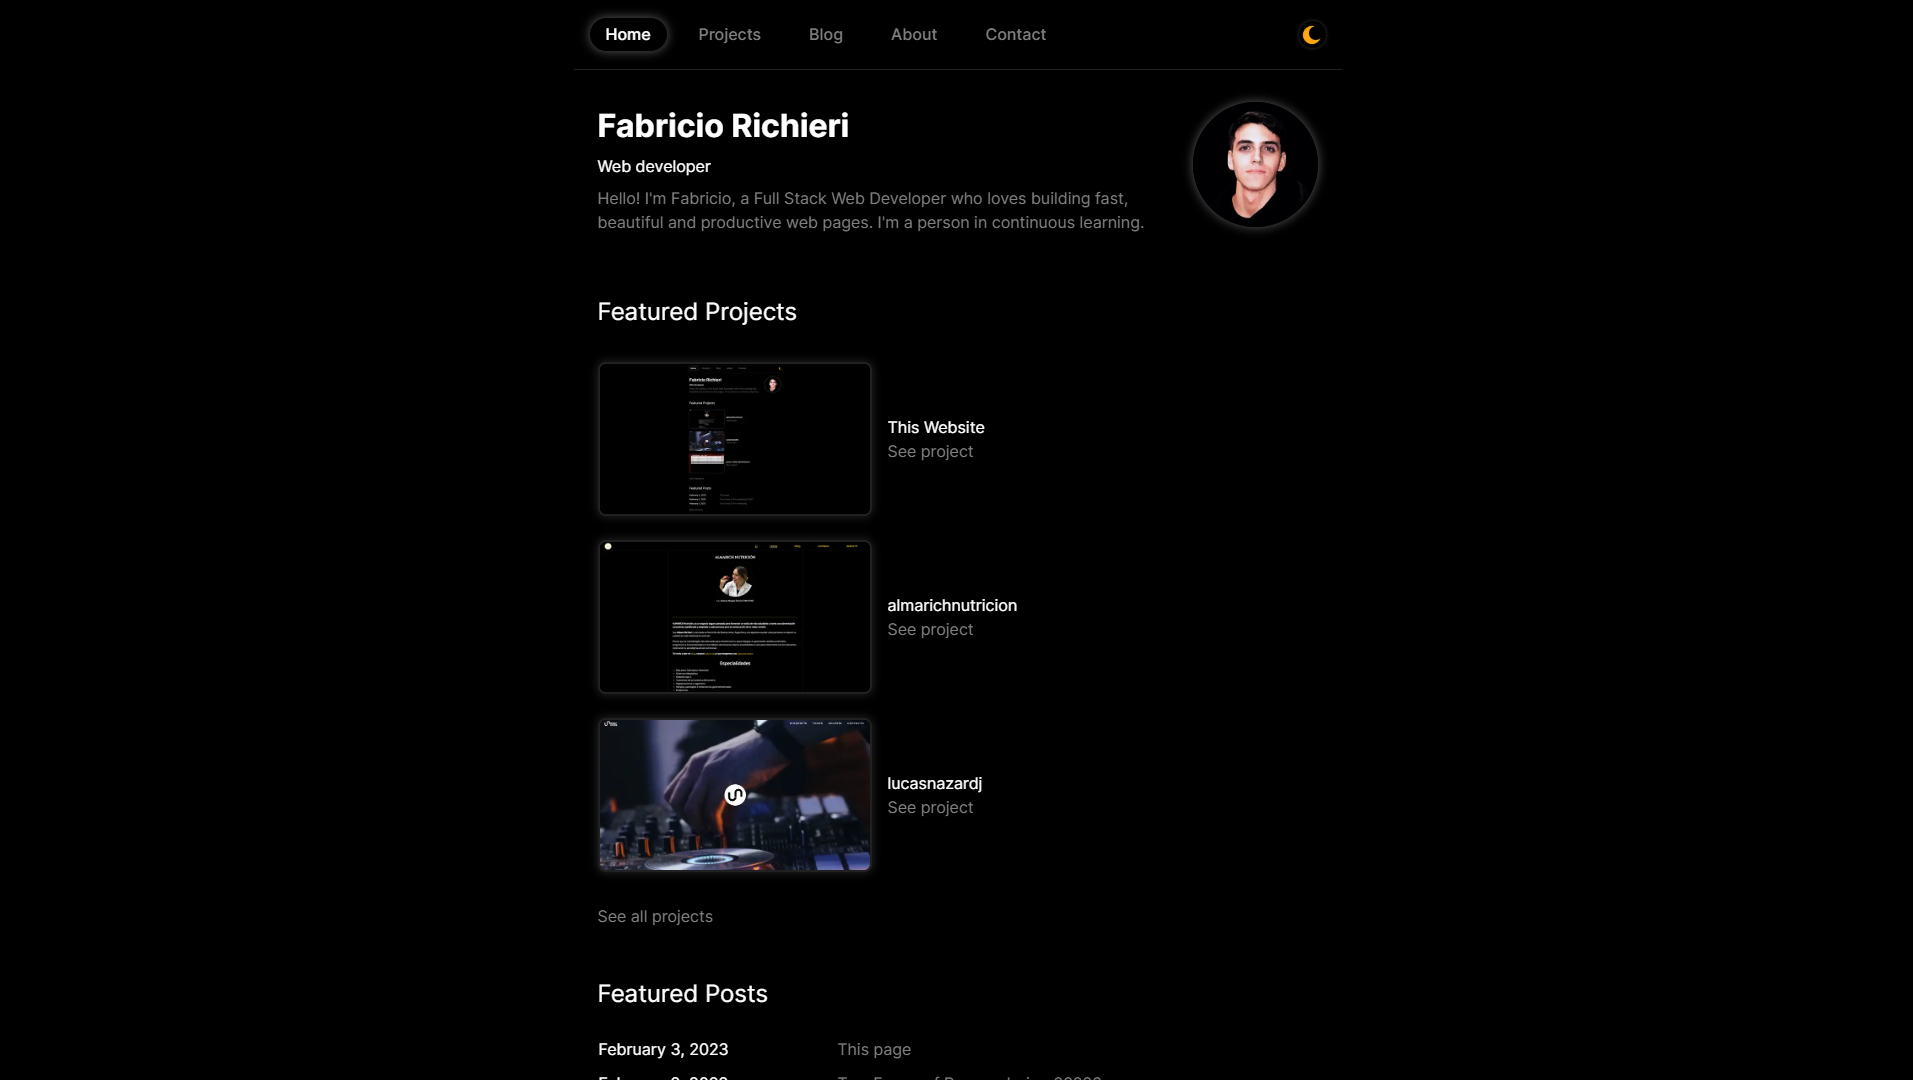
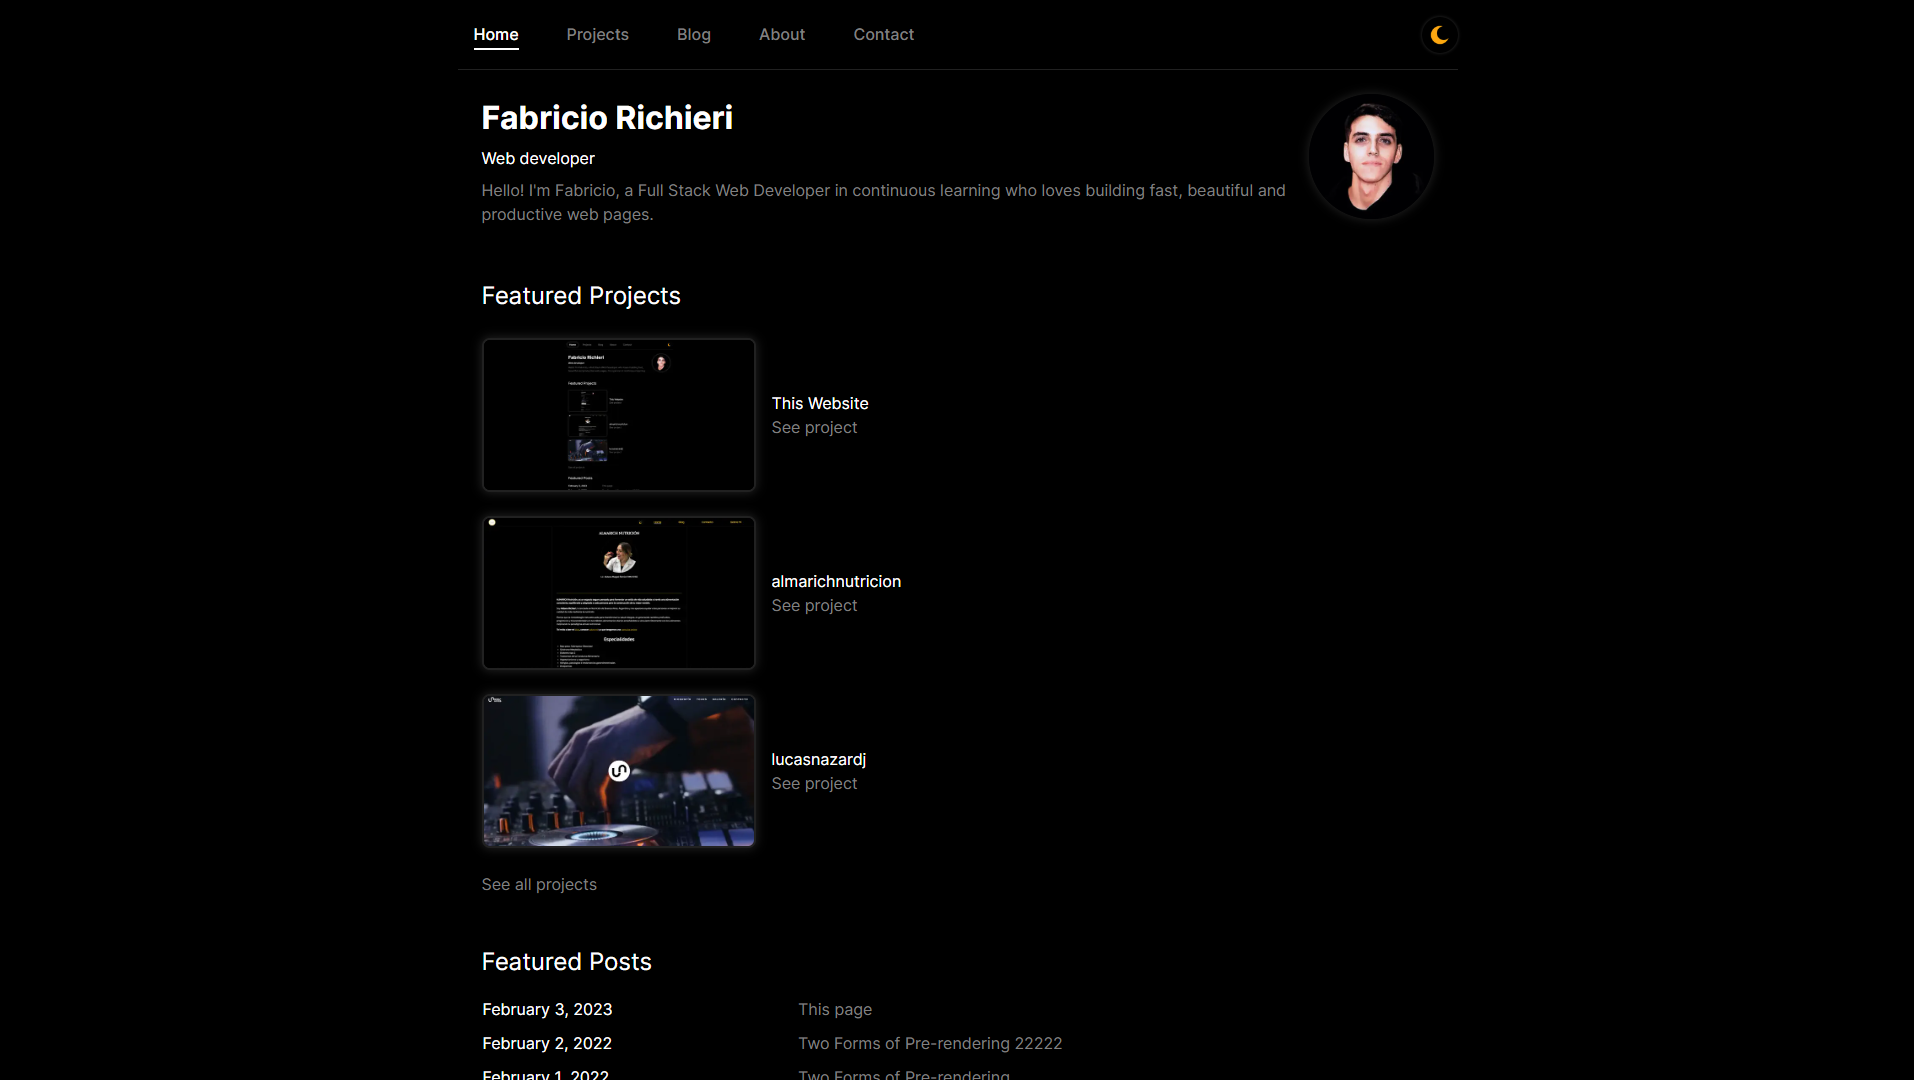
improves

diff --git a/utils/myProjects.ts b/utils/myProjects.ts
@@ -1,7 +1,7 @@
 export const myProjects = [
   {
     id: 0,
-    name: 'This Website',
+    name: 'frichieri.dev',
     slug: 'this-website',
     image: '/images/projects/this-website.png',
     github: 'https://github.com/farichieri/frichieri.dev',
@@ -336,5 +336,29 @@ export const myProjects = [
     stack: 'freeCodeCamp, Back End',
     description:
       'American British English Translator project made for the Quality Assurance freeCodeCamp certification.',
+  },
+  {
+    id: 29,
+    name: 'Stock-checker',
+    slug: 'stock-checker',
+    image: '/images/projects/stock-checker.png',
+    github: 'https://github.com/farichieri/boilerplate-project-stockchecker',
+    live: 'https://boilerplate-project-stockchecker.farichieri.repl.co',
+    languages: 'Node.js, Express & Chai',
+    stack: 'freeCodeCamp, Back End',
+    description:
+      'Stock checker project made for the Quality Assurance freeCodeCamp certification.',
+  },
+  {
+    id: 30,
+    name: 'Anonymous Message Board',
+    slug: 'anonymous-message-board',
+    image: '/images/projects/anonymous-message-board.png',
+    github: 'https://github.com/farichieri/boilerplate-project-messageboard',
+    live: 'https://boilerplate-project-messageboard.farichieri.repl.co',
+    languages: 'Node.js, Express & Chai',
+    stack: 'freeCodeCamp, Back End',
+    description:
+      'Anonymous Message Board project made for the Quality Assurance freeCodeCamp certification.',
   },
 ];

diff --git a/components/Footer/Footer.tsx b/components/Footer/Footer.tsx
@@ -31,7 +31,13 @@ const Footer = () => {
           </li>
         ))}
       </ul>
-      <p>Designed and developed by Fabricio Richieri - © 2023</p>
+      <Link
+        className='copyright'
+        href={'https://github.com/farichieri'}
+        target={'_blank'}
+      >
+        Designed and developed by frichieri - © 2023
+      </Link>
       <style jsx>{`
         footer {
           border-top: 1px solid var(--box-shadow-light);
@@ -59,10 +65,6 @@ const Footer = () => {
         }
         span:hover {
           color: var(--textColor);
-        }
-        p {
-          font-size: 70%;
-          opacity: 0.8;
         }
       `}</style>
     </footer>

diff --git a/components/Nav/Nav.tsx b/components/Nav/Nav.tsx
@@ -49,14 +49,10 @@ const Nav = ({
         {`
           nav {
             align-items: center;
-            backdrop-filter: blur(12px);
             display: flex;
             height: var(--navHeight);
             justify-content: space-between;
-            position: fixed;
             width: 100%;
-            z-index: 999;
-            padding: 0 1rem;
             max-width: var(--max-width);
             border-bottom: 1px solid var(--box-shadow-light);
           }

diff --git a/components/Layout/MainLayout.tsx b/components/Layout/MainLayout.tsx
@@ -20,11 +20,10 @@ export default function MainLayout({
             flex-direction: column;
             height: 100%;
             margin: auto;
-            max-width: 768px;
+            max-width: var(--max-width);
             min-height: calc(100vh - var(--navHeight));
             padding: ${padding}rem;
             width: 100%;
-            padding-top: 2rem;
           }
           @media and only screen (max-width: 500px) {
             section {

diff --git a/components/Layout/index.tsx b/components/Layout/index.tsx
@@ -48,9 +48,7 @@ export default function Layout({ children }: { children: React.ReactNode }) {
         {`
           main {
             background: var(--bgColor);
-            min-height: 100vh;
             color: var(--textColor);
-            padding-top: var(--navHeight);
             width: 100%;
             display: flex;
             align-items: center;

diff --git a/components/Projects/Projects.tsx b/components/Projects/Projects.tsx
@@ -48,6 +48,7 @@ export default function Projects({
             width: 100%;
             gap: 1.5rem;
             margin: 1.5rem 0;
+            border-radius: 5px;
           }
           .project-container {
             display: flex;

diff --git a/styles/general.ts b/styles/general.ts
@@ -4,7 +4,7 @@ const general = css.global`
   :root {
     --footerHeight: 170px;
     --navHeight: 70px;
-    --max-width: 768px;
+    --max-width: 1000px;
   }
   h1 {
     font-size: 2rem;
